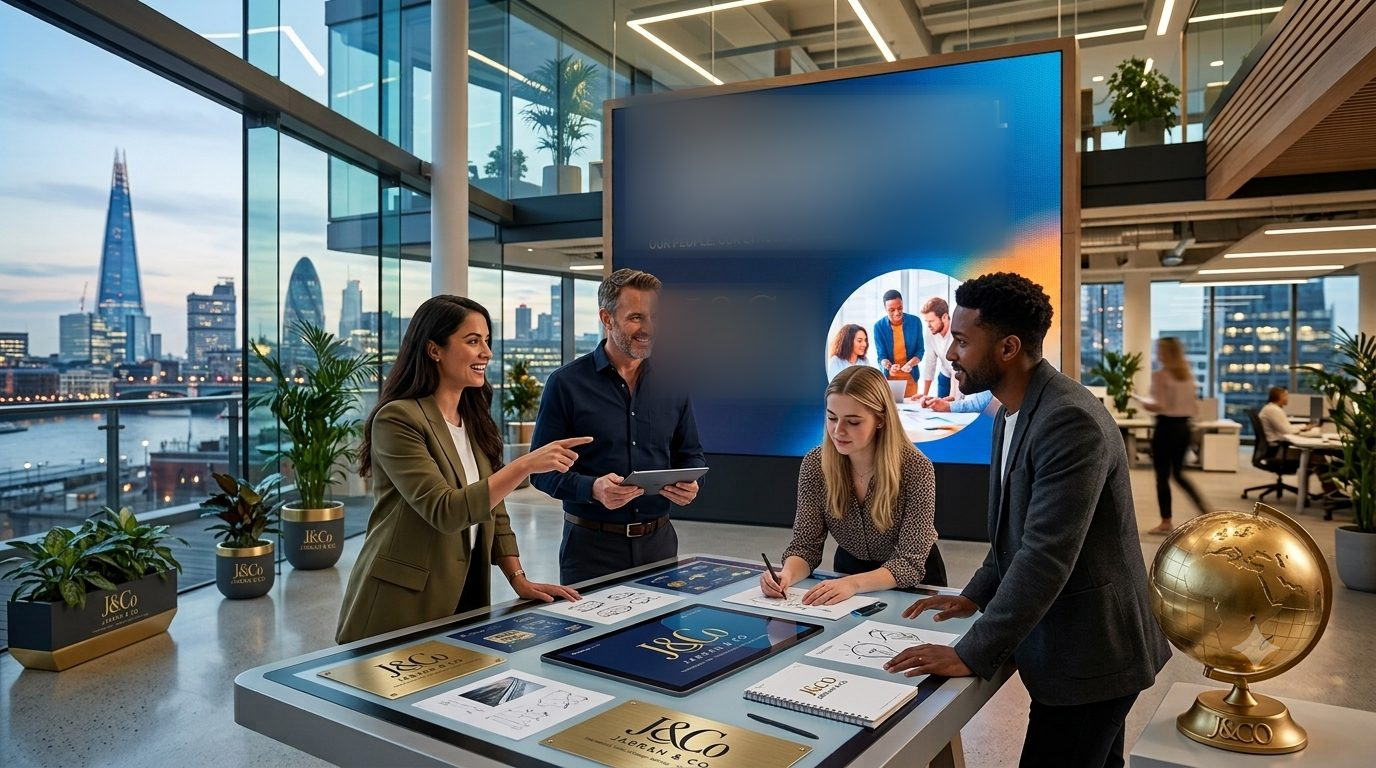
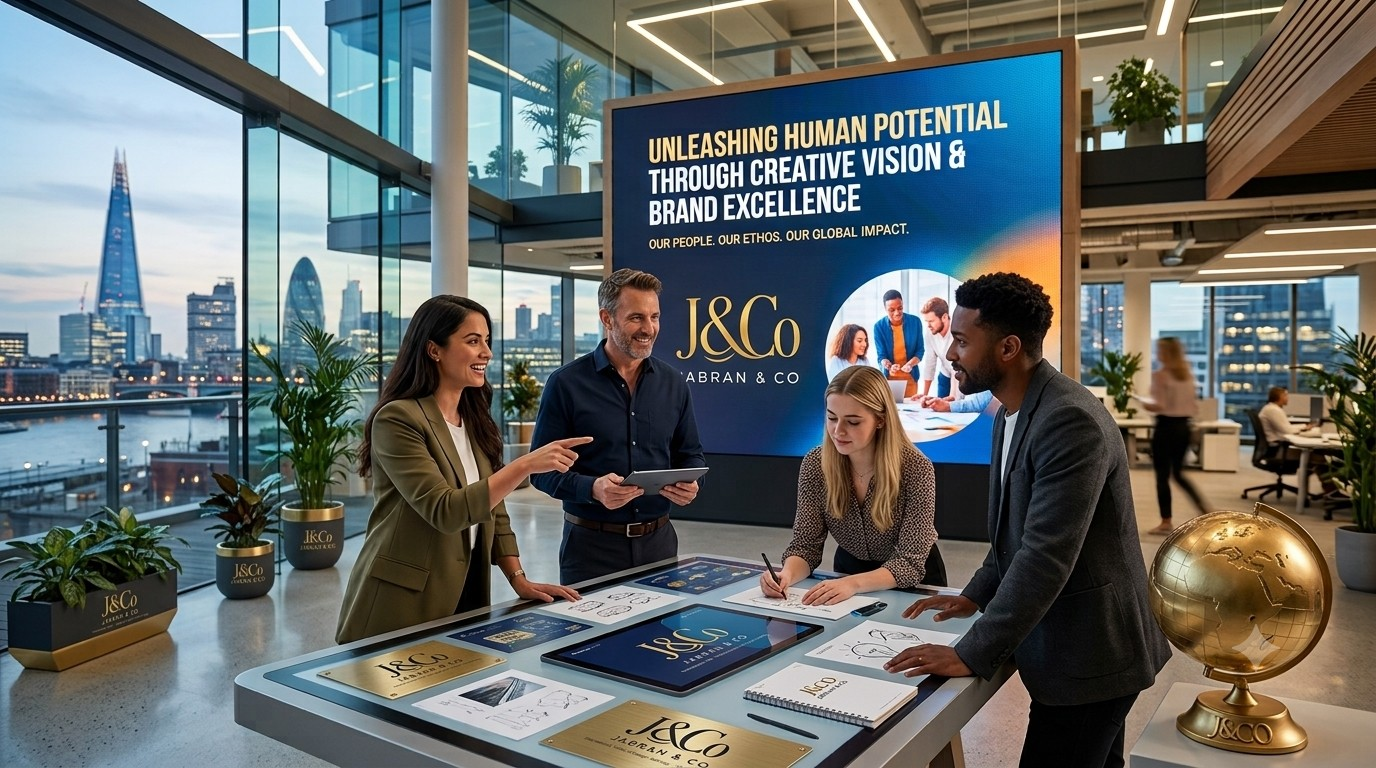
Add files via upload

Changed region(s): [[0.4375, 0.0938, 0.75, 0.3438], [0.4688, 0.375, 0.625, 0.5312]]

diff --git a/about.html b/about.html
@@ -63,44 +63,45 @@ s.parentNode.insertBefore(b, s);})(window.lintrk);
 <script type="application/ld+json">{"@context": "https://schema.org", "@type": "BreadcrumbList", "itemListElement": [{"@type": "ListItem", "position": 1, "name": "Home", "item": "https://www.jabranandco.com/"}, {"@type": "ListItem", "position": 2, "name": "About", "item": "https://www.jabranandco.com/about.html"}]}</script>
 <link rel="icon" type="image/png" href="favicon.png">
 <link rel="preconnect" href="https://fonts.googleapis.com">
-<link href="https://fonts.googleapis.com/css2?family=Playfair+Display:ital,wght@0,500;0,600;0,700;1,600&amp;family=Inter:wght@300;400;500;600&amp;display=swap" rel="stylesheet">
+<link href="https://fonts.googleapis.com/css2?family=Playfair+Display:ital,wght@0,500;0,600;0,700;1,600&amp;family=Inter:wght@300;400;500;600;700;800&amp;display=swap" rel="stylesheet">
 <link rel="stylesheet" href="style.css">
 <style>
-/* ===== About hero scene (LED-wall mission as live text) ===== */
-.hero-scene{background:var(--ink, #0b0f14); line-height:0;}
-.hero-scene-frame{position:relative; width:100%;}
-.hero-scene-img{display:block; width:100%; height:auto;}
-/* Positions are % of the 1376x768 frame, so overlays track the image at any width */
-.led-mission{
-  position:absolute; left:46.6%; top:12%; width:27.5%;
-  line-height:1.18; text-align:left;
+/* ===== About hero: full scene as background, LED mission as live text ===== */
+.page-hero.hero-scene{padding:0;}
+/* Frame keeps the image's exact 1376:768 aspect, so the full scene always shows
+   edge-to-edge with zero cropping, and % overlay positions never drift */
+.hero-scene-frame{
+  position:relative; width:100%; aspect-ratio:1376/768;
+  background-image:url('about-hero-scene.jpg');
+  background-image:image-set(url('about-hero-scene.webp') type('image/webp'), url('about-hero-scene.jpg') type('image/jpeg'));
+  background-size:cover; background-position:center;
 }
-.led-headline{
-  margin:0; font-family:'Inter',sans-serif; font-weight:600;
-  font-size:2.35vw; letter-spacing:0.015em; text-transform:uppercase;
-  color:#ffffff; text-shadow:0 2px 14px rgba(6,20,45,0.55);
+/* Existing page title, overlaid on a soft bottom scrim for legibility */
+.hero-copy{
+  position:absolute; left:0; right:0; bottom:0; padding:90px 0 44px;
+  background:linear-gradient(180deg, rgba(11,15,20,0) 0%, rgba(11,15,20,0.82) 85%);
 }
-.led-gold{color:#e8c15a; display:block;}
-.led-subline{
-  margin:0.9vw 0 0; font-family:'Inter',sans-serif; font-weight:500;
-  font-size:0.95vw; letter-spacing:0.14em; text-transform:uppercase;
-  color:rgba(255,255,255,0.92); text-shadow:0 1px 8px rgba(6,20,45,0.5);
-}
-.led-logo{
-  position:absolute; left:47.2%; top:36.5%; width:12.5%; height:auto;
-  filter:drop-shadow(0 2px 10px rgba(6,20,45,0.45));
-}
-/* Caption fallback: on small screens the wall text is too small to read, so the
-   same mission text renders as a legible block beneath the scene */
+/* Mission text, positioned line-by-line over the LED wall (percentages of frame) */
+.led-mission p{margin:0; position:absolute; left:46.7%; font-family:'Inter',sans-serif; text-transform:uppercase; white-space:nowrap;}
+.led-h{font-weight:800; font-size:2.5vw; letter-spacing:0.005em; color:#fff;
+  text-shadow:0 0 3px rgba(16,35,63,0.95), 0 0 8px rgba(16,35,63,0.85), 0 2px 12px rgba(6,20,45,0.6);}
+.led-h.gold{color:#e8c15a;}
+.led-l1{top:13.1%;} .led-l2{top:18.5%;} .led-l3{top:23.9%;}
+.led-sub{top:29.9%; font-weight:700; font-size:1.02vw; letter-spacing:0.1em; color:rgba(255,255,255,0.95);
+  text-shadow:0 0 3px rgba(16,35,63,0.95), 0 0 6px rgba(16,35,63,0.85);}
+/* Mobile: mission text too small on the wall, so it renders as a block below the scene */
 .led-mission-caption{display:none;}
 @media (max-width:720px){
-  .led-mission, .led-logo{display:none;}
+  .led-mission{display:none;}
+  .hero-copy{position:static; background:var(--bg-alt, #10151c); padding:34px 0 30px;}
   .led-mission-caption{
-    display:block; padding:26px 22px 30px; line-height:1.35;
-    background:linear-gradient(180deg, #10233f, #0b0f14); text-align:center;
+    display:block; padding:24px 22px 28px; text-align:center; line-height:1.35;
+    background:linear-gradient(180deg, #10233f, #0b0f14);
+    font-family:'Inter',sans-serif; text-transform:uppercase;
   }
-  .led-mission-caption .led-headline{font-size:19px;}
-  .led-mission-caption .led-subline{font-size:11px; margin-top:10px;}
+  .led-mission-caption .cap-h{margin:0; font-weight:800; font-size:19px; color:#fff;}
+  .led-mission-caption .cap-h .gold{color:#e8c15a;}
+  .led-mission-caption .cap-sub{margin:10px 0 0; font-weight:600; font-size:11px; letter-spacing:0.14em; color:rgba(255,255,255,0.9);}
 }
 </style>
 </head>
@@ -149,30 +150,25 @@ s.parentNode.insertBefore(b, s);})(window.lintrk);
     </div>
   </div>
 </aside>
-<section class="page-hero" style="background-image:linear-gradient(180deg, rgba(11,15,20,0.92), rgba(11,15,20,0.97)), url('about-hero-scene.jpg'); background-size:cover; background-position:center top;">
-  <div class="wrap">
-    <div class="eyebrow">About Us</div>
-    <h1>Our Story</h1>
-    <p>Trading and advising informally since 2014, formally registered as a partnership firm in Lahore in 2026.</p>
-  </div>
-</section>
-
-<!-- Hero scene: full visual ecosystem with the mission statement rendered as live text over the LED wall -->
-<section class="hero-scene" aria-label="Jabran &amp; Co mission">
-  <div class="hero-scene-frame">
-    <picture>
-      <source srcset="about-hero-scene.webp" type="image/webp">
-      <img class="hero-scene-img" src="about-hero-scene.jpg" alt="Concept visual: four professionals collaborating around an interactive brand table in a glass-walled London office at dusk, with the Jabran &amp; Co mission displayed on a large LED wall" width="1376" height="768" loading="eager">
-    </picture>
-    <div class="led-mission">
-      <p class="led-headline"><span class="led-gold">Unleashing Human Potential</span> Through Creative Vision &amp; Brand Excellence</p>
-      <p class="led-subline">Our People. Our Ethos. Our Global Impact.</p>
+<section class="page-hero hero-scene" aria-label="About Jabran &amp; Co">
+  <div class="hero-scene-frame" role="img" aria-label="Concept visual: four professionals collaborating around an interactive brand table in a glass-walled London office at dusk, with the Jabran &amp; Co mission displayed on a large LED wall">
+    <div class="led-mission" aria-hidden="false">
+      <p class="led-h gold led-l1">Unleashing Human Potential</p>
+      <p class="led-h led-l2">Through Creative Vision &amp;</p>
+      <p class="led-h led-l3">Brand Excellence</p>
+      <p class="led-sub">Our People. Our Ethos. Our Global Impact.</p>
     </div>
-    <img class="led-logo" src="logo-full.png" alt="Jabran &amp; Co">
+    <div class="hero-copy">
+      <div class="wrap">
+        <div class="eyebrow">About Us</div>
+        <h1>Our Story</h1>
+        <p>Trading and advising informally since 2014, formally registered as a partnership firm in Lahore in 2026.</p>
+      </div>
+    </div>
   </div>
   <div class="led-mission-caption">
-    <p class="led-headline"><span class="led-gold">Unleashing Human Potential</span> Through Creative Vision &amp; Brand Excellence</p>
-    <p class="led-subline">Our People. Our Ethos. Our Global Impact.</p>
+    <p class="cap-h"><span class="gold">Unleashing Human Potential</span> Through Creative Vision &amp; Brand Excellence</p>
+    <p class="cap-sub">Our People. Our Ethos. Our Global Impact.</p>
   </div>
 </section>
 